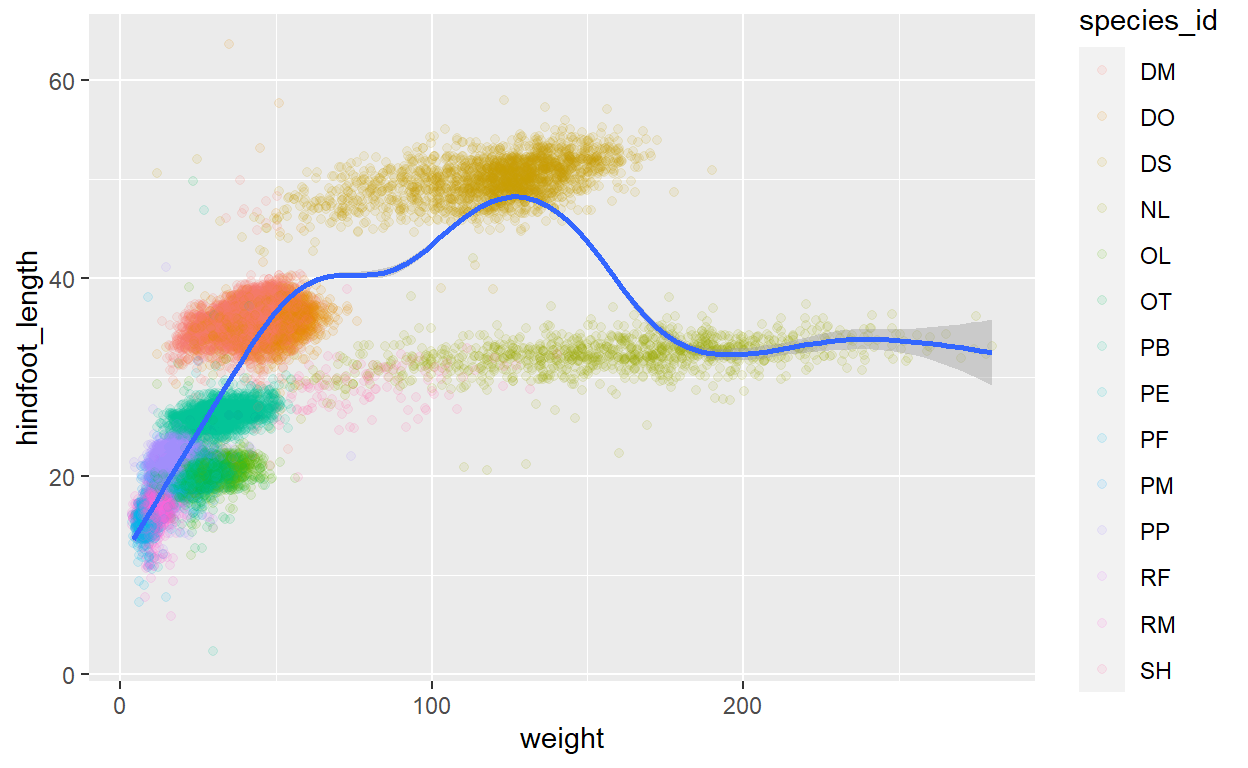
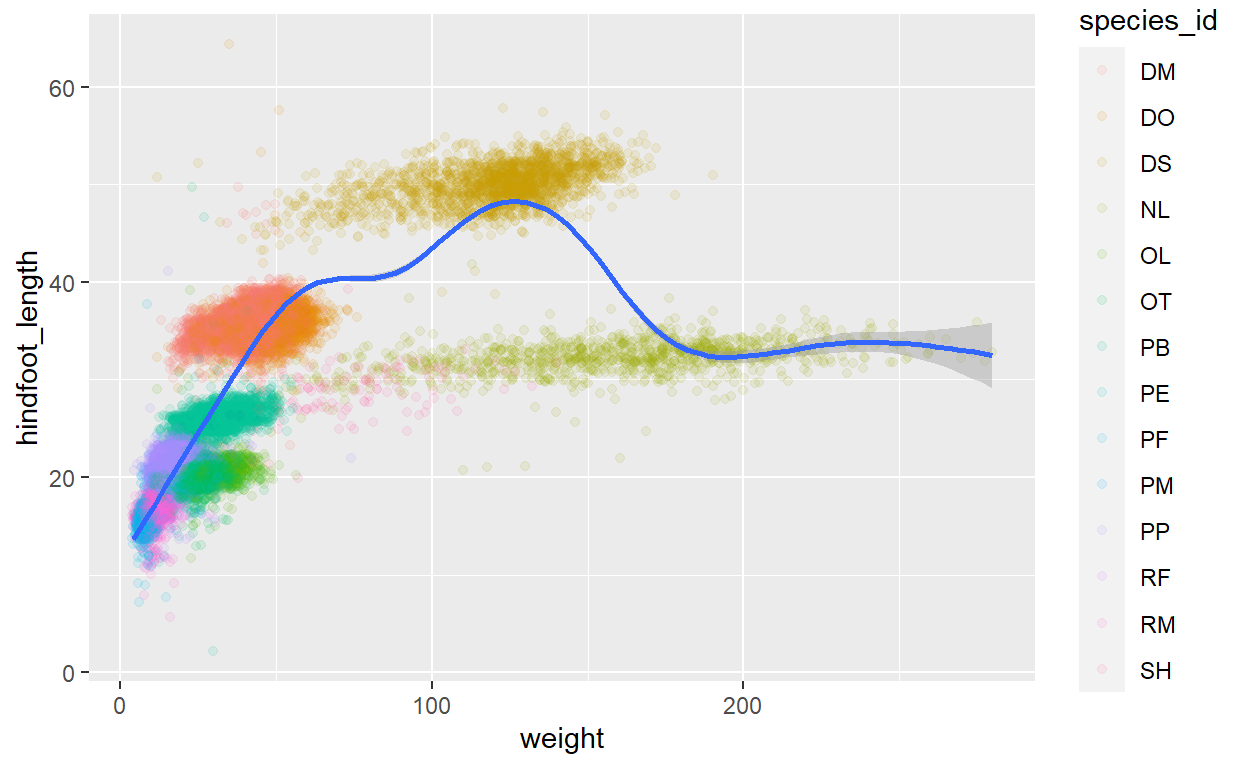
Fix color and group note

diff --git a/Data Visualization/AY 2020-2021/data_viz_learnr/Data_viz_tutorial.html b/Data Visualization/AY 2020-2021/data_viz_learnr/Data_viz_tutorial.html
@@ -426,7 +426,7 @@ ggplot(data = surveys,
 </div>
 <div class="tutorial-exercise-support" data-label="challenge-2part2-solution" data-caption="Code" data-completion="1" data-diagnostics="1" data-startover="1" data-lines="0">
 <pre class="text"><code>surveys %&gt;% 
-  ggplot(mapping = aes(x = weight, y = plot_id)) +
+  ggplot(mapping = aes(xx = plot_id, y = weight)) +
   geom_jitter(aes(color = plot_type), alpha = 0.1) + 
   geom_smooth()</code></pre>
 </div>
@@ -449,8 +449,8 @@ ggplot(data = surveys,
   ggplot(mapping = aes(x = species_id, y = weight)) +
     geom_boxplot(alpha = 0) + 
     ## alpha = 0 eliminates the black (possible outlier) points, so they&#39;re not plotted twice
-    geom_jitter(alpha = 0.2, color = &quot;tomato&quot;)
-    ## alpha = 0.2 decreases the opacity of the points, to not be too busy</code></pre>
+    geom_jitter(alpha = 0.1, color = &quot;tomato&quot;)
+    ## alpha = 0.1 decreases the opacity of the points, to not be too busy</code></pre>
 <script type="application/json" data-opts-chunk="1">{"fig.width":6.5,"fig.height":4,"fig.retina":2,"fig.align":"default","fig.keep":"high","fig.show":"asis","out.width":624,"warning":true,"error":false,"message":true,"exercise.df_print":"paged","exercise.checker":["function (label = NULL, solution_code = NULL, user_code = NULL, ","    check_code = NULL, envir_result = NULL, evaluate_result = NULL, ","    envir_prep = NULL, last_value = NULL, ...) ","{","    (utils::getFromNamespace(\"grade_learnr_\", \"gradethis\"))(label = label, ","        solution_code = solution_code, user_code = user_code, ","        check_code = check_code, envir_result = envir_result, ","        evaluate_result = evaluate_result, envir_prep = envir_prep, ","        last_value = last_value, ...)","}"]}</script>
 </div>
 <blockquote>
@@ -464,19 +464,20 @@ ggplot(data = surveys,
 <div class="tutorial-exercise" data-label="challenge-3part1-example" data-caption="Code" data-completion="1" data-diagnostics="1" data-startover="1" data-lines="0">
 <pre class="text"><code>ggplot(data = surveys, mapping = aes(x = species_id, y = weight)) +
   geom_boxplot(alpha = 0) +
-  geom_jitter(alpha = 0.3, color = &quot;tomato&quot;)</code></pre>
+  geom_jitter(alpha = 0.1, color = &quot;tomato&quot;)</code></pre>
 <script type="application/json" data-opts-chunk="1">{"fig.width":6.5,"fig.height":4,"fig.retina":2,"fig.align":"default","fig.keep":"high","fig.show":"asis","out.width":624,"warning":true,"error":false,"message":true,"exercise.df_print":"paged","exercise.checker":["function (label = NULL, solution_code = NULL, user_code = NULL, ","    check_code = NULL, envir_result = NULL, evaluate_result = NULL, ","    envir_prep = NULL, last_value = NULL, ...) ","{","    (utils::getFromNamespace(\"grade_learnr_\", \"gradethis\"))(label = label, ","        solution_code = solution_code, user_code = user_code, ","        check_code = check_code, envir_result = envir_result, ","        evaluate_result = evaluate_result, envir_prep = envir_prep, ","        last_value = last_value, ...)","}"]}</script>
 </div>
 <div class="tutorial-exercise" data-label="challenge-3part1" data-caption="Code" data-completion="1" data-diagnostics="1" data-startover="1" data-lines="7">
 <pre class="text"><code>##  Start with the boxplot we created
-##  1. Replace the boxplot with a violin plot. For help, see geom_violin().</code></pre>
+##  1. Replace the boxplot with a violin plot. For help, see geom_violin().
+##  You might need to decrease opacity even more to see the violins (try 0.03)</code></pre>
 <script type="application/json" data-opts-chunk="1">{"fig.width":6.5,"fig.height":4,"fig.retina":2,"fig.align":"default","fig.keep":"high","fig.show":"asis","out.width":624,"warning":true,"error":false,"message":true,"exercise.df_print":"paged","exercise.checker":["function (label = NULL, solution_code = NULL, user_code = NULL, ","    check_code = NULL, envir_result = NULL, evaluate_result = NULL, ","    envir_prep = NULL, last_value = NULL, ...) ","{","    (utils::getFromNamespace(\"grade_learnr_\", \"gradethis\"))(label = label, ","        solution_code = solution_code, user_code = user_code, ","        check_code = check_code, envir_result = envir_result, ","        evaluate_result = evaluate_result, envir_prep = envir_prep, ","        last_value = last_value, ...)","}"]}</script>
 </div>
 <div class="tutorial-exercise-support" data-label="challenge-3part1-solution" data-caption="Code" data-completion="1" data-diagnostics="1" data-startover="1" data-lines="0">
 <pre class="text"><code>surveys %&gt;% 
   ggplot(mapping = aes(x = species_id, y = weight)) +
     geom_violin() + 
-    geom_jitter(alpha = 0.2, color = &quot;tomato&quot;)</code></pre>
+    geom_jitter(alpha = 0.03, color = &quot;tomato&quot;)</code></pre>
 </div>
 <div class="tutorial-exercise-support" data-label="challenge-3part1-check" data-caption="Code" data-completion="1" data-diagnostics="1" data-startover="1" data-lines="0">
 <pre class="text"><code>grade_code()</code></pre>
@@ -617,7 +618,7 @@ surveys %&gt;%
   stat_count()</code></pre>
 <script type="application/json" data-opts-chunk="1">{"fig.width":6.5,"fig.height":4,"fig.retina":2,"fig.align":"default","fig.keep":"high","fig.show":"asis","out.width":624,"warning":true,"error":false,"message":true,"exercise.df_print":"paged","exercise.checker":["function (label = NULL, solution_code = NULL, user_code = NULL, ","    check_code = NULL, envir_result = NULL, evaluate_result = NULL, ","    envir_prep = NULL, last_value = NULL, ...) ","{","    (utils::getFromNamespace(\"grade_learnr_\", \"gradethis\"))(label = label, ","        solution_code = solution_code, user_code = user_code, ","        check_code = check_code, envir_result = envir_result, ","        evaluate_result = evaluate_result, envir_prep = envir_prep, ","        last_value = last_value, ...)","}"]}</script>
 </div>
-<p>If you so wish, you could override the default stat for that geom. For example, if you wanted to plot a bar chart of proportions you would use the following code to override the <code>count</code> stat:</p>
+<p>If you so wish, you could override the default <code>stat</code> for that <code>geom</code>. For example, if you wanted to plot a bar chart of proportions you would use the following code to override the <code>count</code> stat:</p>
 <div class="tutorial-exercise" data-label="bar3" data-caption="Code" data-completion="1" data-diagnostics="1" data-startover="1" data-lines="0">
 <pre class="text"><code>surveys %&gt;% 
   ggplot(mapping = aes(x = species_id)) + 
@@ -900,7 +901,7 @@ ggplot(mapping = aes(x = year, y = avg_weight, color = species_id)) +
 <script type="application/json" data-opts-chunk="1">{"fig.width":6.5,"fig.height":4,"fig.retina":2,"fig.align":"default","fig.keep":"high","fig.show":"asis","out.width":624,"warning":true,"error":false,"message":true,"exercise.df_print":"paged","exercise.checker":["function (label = NULL, solution_code = NULL, user_code = NULL, ","    check_code = NULL, envir_result = NULL, evaluate_result = NULL, ","    envir_prep = NULL, last_value = NULL, ...) ","{","    (utils::getFromNamespace(\"grade_learnr_\", \"gradethis\"))(label = label, ","        solution_code = solution_code, user_code = user_code, ","        check_code = check_code, envir_result = envir_result, ","        evaluate_result = evaluate_result, envir_prep = envir_prep, ","        last_value = last_value, ...)","}"]}</script>
 </div>
 <p><strong>Note:</strong><br />
-<code>theme_bw()</code> is function for a <strong>specific</strong> theme and <code>theme()</code> is a generic function for a <strong>variety</strong> of different themes!</p>
+<code>theme_bw()</code> is a function for a <strong>specific</strong> theme and <code>theme()</code> is a generic function for a <strong>variety</strong> of different themes!</p>
 <p>After our manipulations, you may notice that the values on the x-axis are still not properly readable. Let’s swap the orientation of the labels, so the reader doesn’t have to tilt their head when reading our plot! The <code>coord_flip()</code> function easily changes the x- and y-axis.</p>
 <div class="tutorial-exercise" data-label="flip" data-caption="Code" data-completion="1" data-diagnostics="1" data-startover="1" data-lines="0">
 <pre class="text"><code>yearly_sex_counts %&gt;% 
